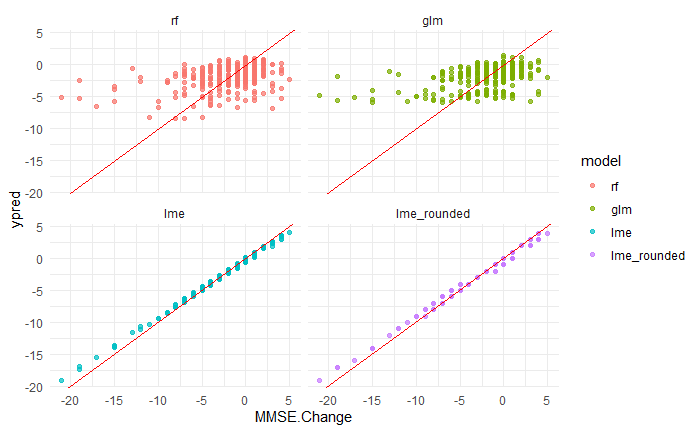
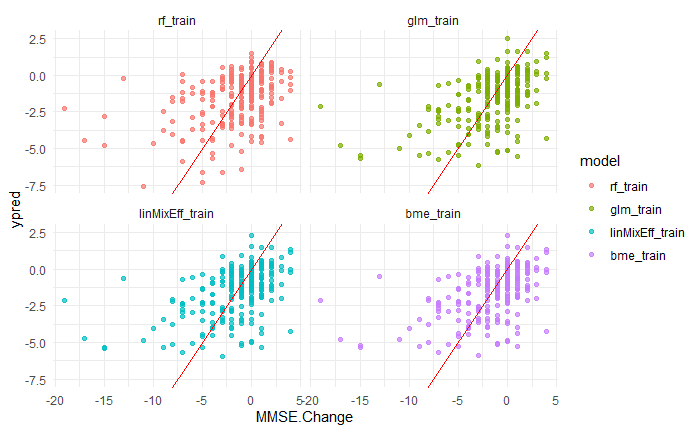
new plots

diff --git a/README.md b/README.md
@@ -395,43 +395,52 @@ Similar to the GLM, the Random Forest model struggles to give good predictions. 
 
 #### Setup
 ```{r}
-lmeMod2 <- lme(`MMSE.Change`~ AGE+MMSE+PTGENDER+PTEDUCAT+APOE4+DX, random = ~ 1|PTID, data = df_lme)
+lmeMod2 <- lme(`MMSE.Change`~ AGE+MMSE+PTGENDER+PTEDUCAT+APOE4, random = ~ 1|DX, data = train)
 lmeMod2
 summary(lmeMod2)
 ```
 
 ```
 Linear mixed-effects model fit by REML
-  Data: df_lme 
-  Log-restricted-likelihood: -989.6201
-  Fixed: MMSE.Change ~ AGE + MMSE + PTGENDER + PTEDUCAT + APOE4 + DX 
- (Intercept)          AGE         MMSE PTGENDERMale     PTEDUCAT       APOE41       APOE42       DXEMCI       DXLMCI         DXAD 
-  0.35167737   0.05543014  -0.14411548   0.29307865  -0.03558215  -0.34469115  -0.42067946  -0.01832123  -1.74341427  -5.25577317 
+  Data: train 
+  Log-restricted-likelihood: -676.6212
+  Fixed: MMSE.Change ~ AGE + MMSE + PTGENDER + PTEDUCAT + APOE4 
+ (Intercept)          AGE         MMSE PTGENDERMale     PTEDUCAT       APOE41       APOE42 
+  3.91666593   0.04941079  -0.35126601   0.56801388   0.01218666  -0.48859860  -0.78098112 
 
 Random effects:
- Formula: ~1 | PTID
+ Formula: ~1 | DX
         (Intercept) Residual
-StdDev:    2.967406 1.112879
+StdDev:    2.697636 2.897503
 
-Fixed effects:  MMSE.Change ~ AGE + MMSE + PTGENDER + PTEDUCAT + APOE4 + DX 
+Number of Observations: 269
+Number of Groups: 4 
+[1] "RMSE: "
+[1] 3.201206
+Linear mixed-effects model fit by REML
+  Data: train 
+
+Random effects:
+ Formula: ~1 | DX
+        (Intercept) Residual
+StdDev:    2.697636 2.897503
+
+Fixed effects:  MMSE.Change ~ AGE + MMSE + PTGENDER + PTEDUCAT + APOE4 
  Correlation: 
-             (Intr) AGE    MMSE   PTGEND PTEDUC APOE41 APOE42 DXEMCI DXLMCI
-AGE          -0.582                                                        
-MMSE         -0.815  0.093                                                 
-PTGENDERMale  0.054 -0.100  0.008                                          
-PTEDUCAT     -0.193  0.058 -0.121 -0.228                                   
-APOE41       -0.124  0.107  0.028 -0.059  0.092                            
-APOE42       -0.197  0.165  0.105 -0.054  0.077  0.324                     
-DXEMCI       -0.319  0.303  0.148  0.006  0.029 -0.013 -0.036              
-DXLMCI       -0.449  0.112  0.438 -0.021 -0.009 -0.112 -0.087  0.461       
-DXAD         -0.659  0.080  0.736  0.015  0.010 -0.128 -0.064  0.350  0.608
+             (Intr) AGE    MMSE   PTGEND PTEDUC APOE41
+AGE          -0.585                                   
+MMSE         -0.757  0.119                            
+PTGENDERMale  0.119 -0.145 -0.028                     
+PTEDUCAT     -0.133  0.015 -0.177 -0.271              
+APOE41       -0.109  0.100 -0.004 -0.090  0.098       
+APOE42       -0.169  0.180  0.050 -0.058  0.066  0.307
 
 Standardized Within-Group Residuals:
-        Min          Q1         Med          Q3         Max 
--1.89867440 -0.12633857  0.03271953  0.18422209  0.97386997 
+       Min         Q1        Med         Q3        Max 
+-5.8077759 -0.3162452  0.1115573  0.5588864  2.8449251 
 
-Number of Observations: 384
-Number of Groups: 384 
+Number of Observations: 269
+Number of Groups: 4 
 
 AIC: 2003.24
 BIC: 2050.331
@@ -451,14 +460,6 @@ First note ththat the coefficients mentioned here:
   0.35167737   0.05543014  -0.14411548   0.29307865  -0.03558215  -0.34469115  -0.42067946  -0.01832123  -1.74341427  -5.25577317 
 
 are exactly the same as those above in the GLM.  
-
-<figure>
-  <img src="./img/LME_predVsTrue.png", width = "720">
-  <figcaption><b>Fig 7.</b> Random Forest Regression Plots.</figcaption>
-</figure>
-
-However, by including the Patient ID as a random effects term we allow for each subject to be independently impacted by the fixed effects of Age, Diagnosis, etc. In short, if we control for the variance of an individual, the fixed effects are actually a fairly good predictor of the future score of that same individual.
-
 
 ### Bayesian Mixed effects:
 
@@ -524,37 +525,28 @@ scale reduction factor on split chains (at convergence, Rhat = 1)
 
 ## Discussion
 
-```{r}
-df_preds %>% 
-  mutate(lme_rounded = round(lme, 0)) %>%
-  pivot_longer(cols = c(glm, rf, lme, lme_rounded), names_to = "model", values_to = "ypred") %>%
-  mutate(predresidual = MMSE.Change - ypred, model = factor(model, levels = c("rf", "glm", "lme", "lme_rounded")) ) %>%
-  ggplot(aes(x = model, y = sqrt(abs(predresidual)), color = model)) + 
-    geom_jitter(width = 0.3, height = 0.035, alpha = 0.7) +
-    stat_summary(fun.data = mean_se, geom = "errorbar", color = "black", width= 0.2) +
-    theme_minimal()
-```
 <figure>
-  <img src="./img/sqrtAbsPredictionResidualsBetweenModels2.png", width = "720">
+  <img src="./img/RMSE.png", width = "720">
   <figcaption><b>Fig .</b> Comparisons of absolute prediction error between models.</figcaption>
 </figure>
 
-Clearly, on the training set the lme model (especially with rounded prediction) seems to have the smallest error.
+
+```{r}
+
+```
+<figure>
+  <img src="./img/barResiduals.png", width = "720">
+  <figcaption><b>Fig .</b> Comparisons of absolute prediction error between models.</figcaption>
+</figure>
+
+
 
 
 ```{r}
-df_preds %>% 
-  mutate(lme_rounded = round(lme, 0)) %>%
-  pivot_longer(cols = c(glm, rf, lme, lme_rounded), names_to = "model", values_to = "ypred") %>%
-  mutate(model = factor(model, levels = c("rf", "glm", "lme", "lme_rounded")) ) %>%
-  ggplot(aes(x = MMSE.Change, y = ypred, color = model)) + 
-    geom_point(alpha = 0.7) +
-    geom_abline(slope = 1, color = "red") +
-    theme_minimal() +
-    facet_wrap(~model)
+
 ```
 <figure>
-  <img src="./img/trainingPredvsTrue2.png", width = "720">
+  <img src="./img/lineResiduals.png", width = "720">
   <figcaption><b>Fig .</b> Comparisons of prediction error between models.</figcaption>
 </figure>
 
